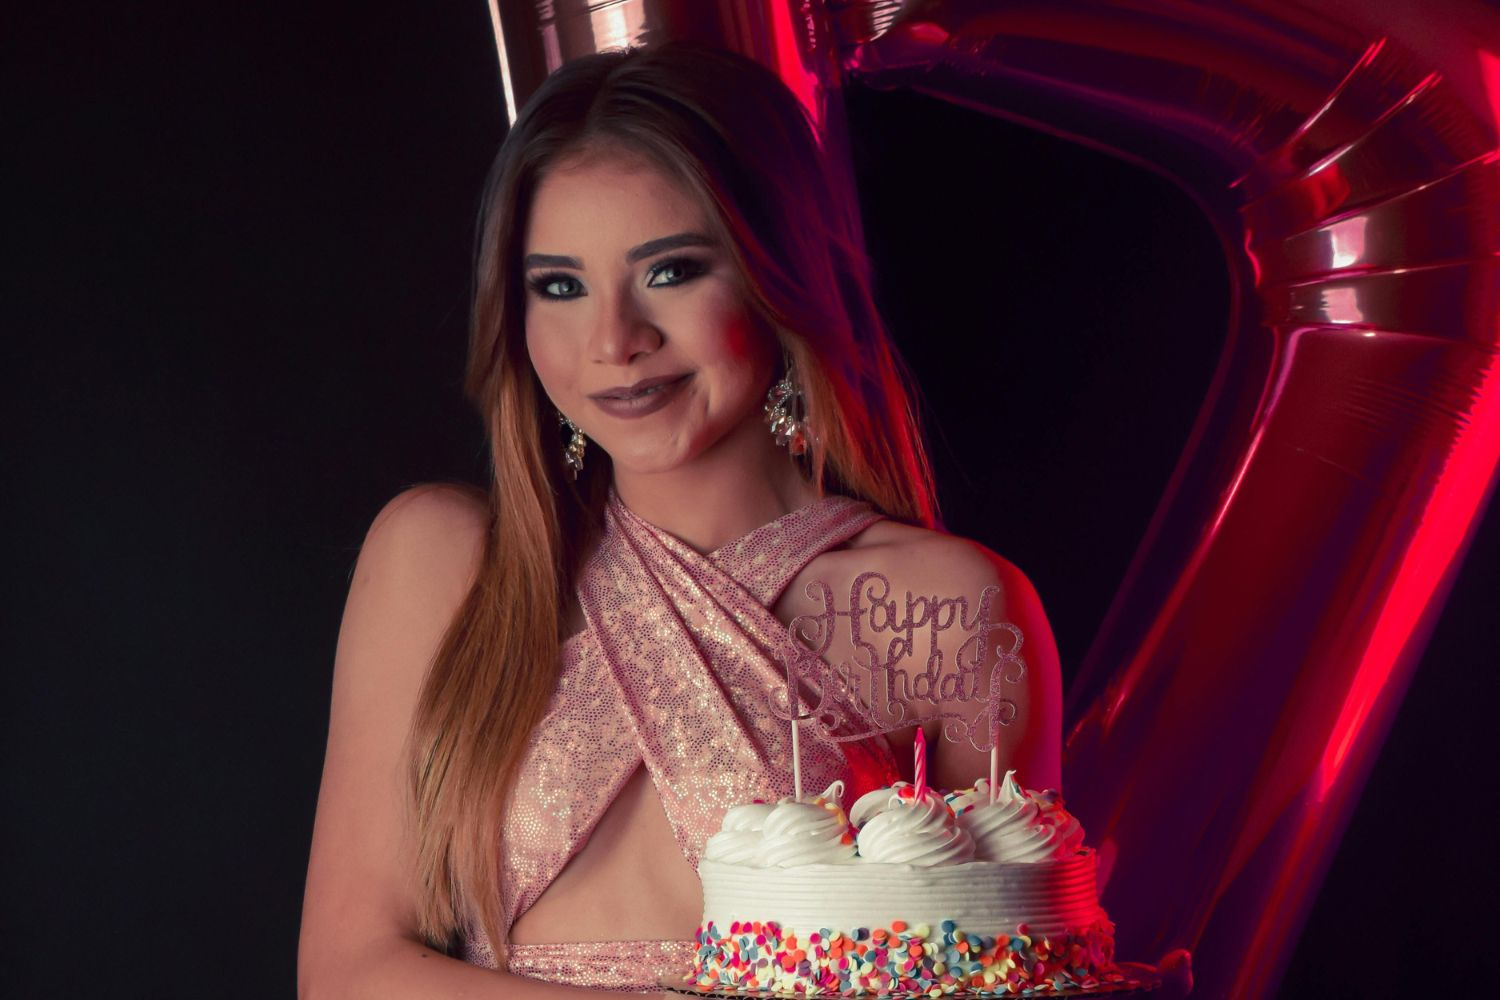
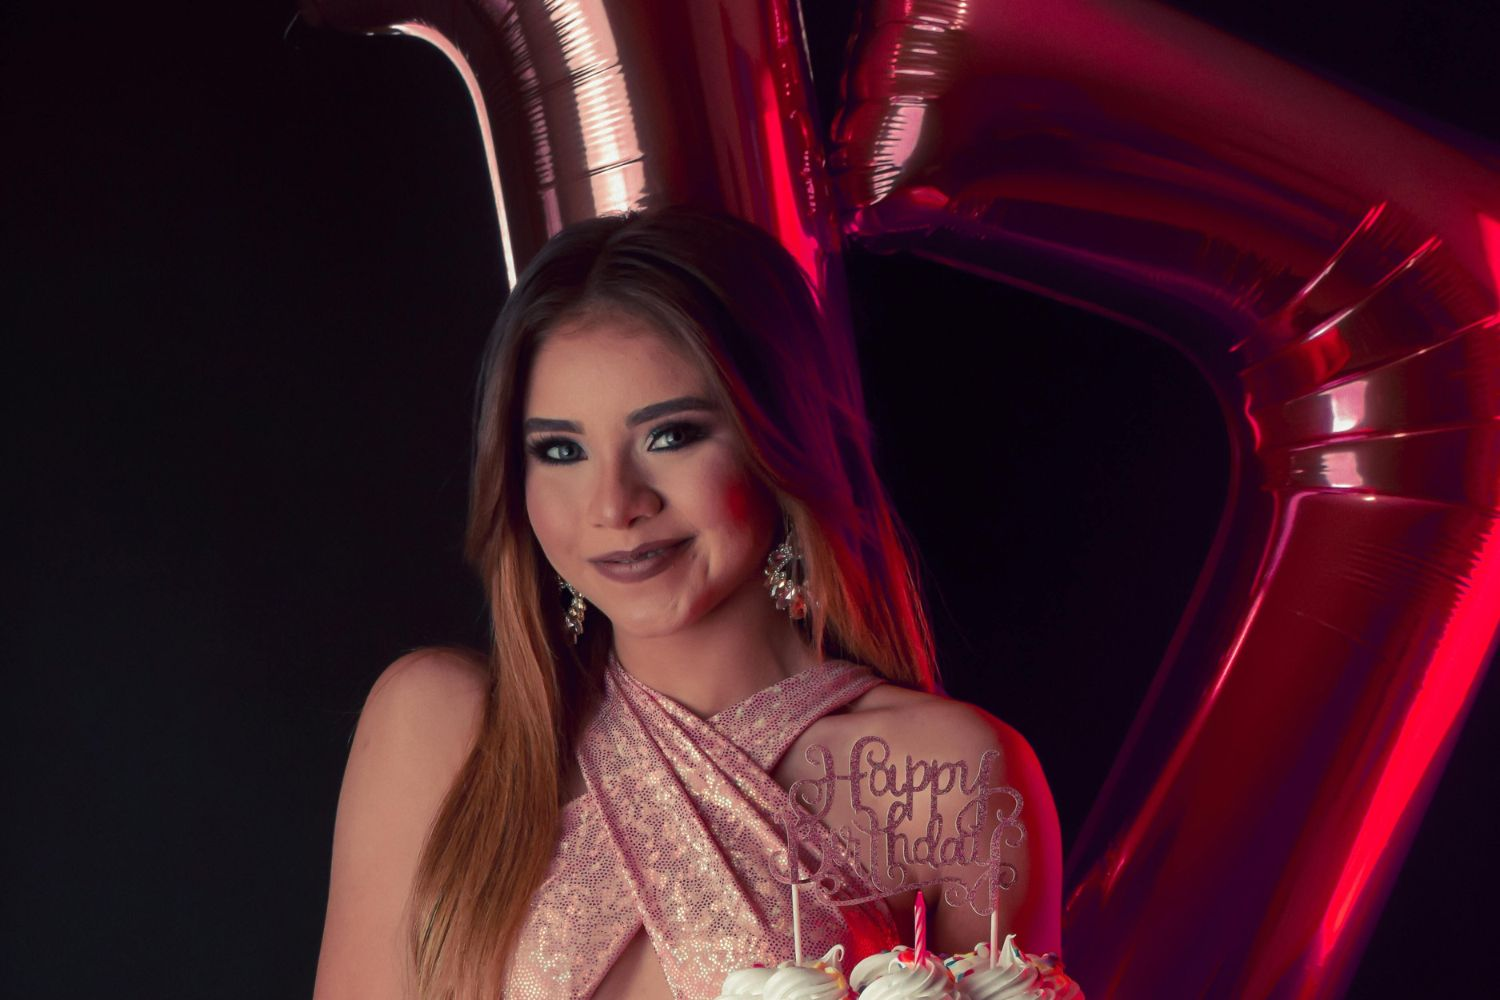
Reorganizando o código, adicionando uma barra central, corrigindo a imagem da home.

diff --git a/index.html b/index.html
@@ -14,32 +14,32 @@
 
 <body>
     <div id="inicio"></div>
-        <!--Criação de cabeçalho-->
+    <!--Criação de cabeçalho-->
 
-        <header>
-            <div class="menu-hamburguer" onclick="abrirSidebar()">☰</div>
-            <div class="nav-container">
-                <nav id="menu">
-                    <a href="#" onclick="mostrarSecao('home')">HOME</a>
-                    <a href="#" onclick="mostrarSecao('sobre')">SOBRE MIM</a>
-                    <a href="#" onclick="mostrarSecao('local')">LOCAL</a>
-                    <a href="#" onclick="mostrarSecao('presentes')">PRESENTE</a>
-                    <a href="#" onclick="mostrarSecao('confirmacao')">CONFIRME SUA PRESENÇA</a>
-                </nav>
-            </div>
+    <header>
+        <div class="menu-hamburguer" onclick="abrirSidebar()">☰</div>
+        <div class="nav-container">
+            <nav id="menu">
+                <a href="#" onclick="mostrarSecao('home')">HOME</a>
+                <a href="#" onclick="mostrarSecao('sobre')">SOBRE MIM</a>
+                <a href="#" onclick="mostrarSecao('local')">LOCAL</a>
+                <a href="#" onclick="mostrarSecao('presentes')">PRESENTE</a>
+                <a href="#" onclick="mostrarSecao('confirmacao')">CONFIRME SUA PRESENÇA</a>
+            </nav>
+        </div>
 
 
-            <!-- Criação do sidebar -->
-            <div id="sidebar" class="sidebar">
-                <a href="#" onclick="fecharSidebar()">✖</a>
-                <a href="#" onclick="mostrarSecao('home'); fecharSidebar()">HOME</a>
-                <a href="#" onclick="mostrarSecao('sobre'); fecharSidebar()">SOBRE MIM</a>
-                <a href="#" onclick="mostrarSecao('local'); fecharSidebar()">LOCAL</a>
-                <a href="#" onclick="mostrarSecao('presentes'); fecharSidebar()">PRESENTE</a>
-                <a href="#" onclick="mostrarSecao('confirmacao'); fecharSidebar()">CONFIRME SUA PRESENÇA</a>
-            </div>
-        </header>
-        <!--Container para pagina home de apresentação-->
+        <!-- Criação do sidebar -->
+        <div id="sidebar" class="sidebar">
+            <a href="#" onclick="fecharSidebar()">✖</a>
+            <a href="#" onclick="mostrarSecao('home'); fecharSidebar()">HOME</a>
+            <a href="#" onclick="mostrarSecao('sobre'); fecharSidebar()">SOBRE MIM</a>
+            <a href="#" onclick="mostrarSecao('local'); fecharSidebar()">LOCAL</a>
+            <a href="#" onclick="mostrarSecao('presentes'); fecharSidebar()">PRESENTE</a>
+            <a href="#" onclick="mostrarSecao('confirmacao'); fecharSidebar()">CONFIRME SUA PRESENÇA</a>
+        </div>
+    </header>
+    <!--Container para pagina home de apresentação-->
     </div>
     <!--Seção home -->
 
@@ -48,9 +48,12 @@
             <div class="home-container">
                 <img src="imagens/Fotos/imagemHome.jpg" alt="Foto de garota com bolo de aniversario" class="imagemHome">
             </div>
+            <div class="barra"></div>
+
+
             <!-- contagem regressiva -->
             <div id="countdown" class="countdown">
-                <h1>Falta pouco para o grande dia!</h1>
+                <h1>Falta pouco para meu grande dia!</h1>
                 <div class="timer">
                     <div><span id="dias">00</span><small>dias</small></div>
                     <div><span id="horas">00</span><small>horas</small></div>
@@ -59,9 +62,11 @@
                 </div>
             </div>
 
+            
+
             <br>
-            <p>Venha curtir comigo esse dia especial, meus 17 anos. Teremos um dresscode especial: <br> <a href="" target="_blank"
-                    style="text-decoration:none; font-weight:bold; color:#600018;">
+            <p>Venha curtir comigo esse dia especial, meus 17 anos. Teremos um dresscode especial: <br> <a href=""
+                    target="_blank" style="text-decoration:none; font-weight:bold; color:#600018;">
                     clique aqui</a> para se inspirar.
             </p><br>
 
@@ -85,21 +90,21 @@
                 <img src="imagens/Fotos/imagem2.png" alt="Foto 2" class="foto">
                 <img src="imagens/Fotos/imagem3.jpg" alt="Foto 3" class="foto">
             </div>
-            <p>Clara celebra mais um ano de vida, 
-                irradiando a mesma alegria contagiante de sempre! Desde jovem, 
-                Clara demonstrou uma paixão por desafios e um coração gentil, 
-                características que a tornaram querida por todos ao seu redor. 
-                Seja em seus projetos pessoais ou no cuidado com seu amado 
+            <p>Clara celebra mais um ano de vida,
+                irradiando a mesma alegria contagiante de sempre! Desde jovem,
+                Clara demonstrou uma paixão por desafios e um coração gentil,
+                características que a tornaram querida por todos ao seu redor.
+                Seja em seus projetos pessoais ou no cuidado com seu amado
                 cachorrinho, o fofo Floquinho, ela sempre se dedica com entusiasm
-                o e carinho. Hoje, ao lado de balões vibrantes e na companhia 
-                de seu fiel amigo de quatro patas, Clara celebra não apenas mais 
+                o e carinho. Hoje, ao lado de balões vibrantes e na companhia
+                de seu fiel amigo de quatro patas, Clara celebra não apenas mais
                 um ano, mas todas as conquistas e a pessoa incrível que se tornou.
-                 Que este novo ciclo seja repleto de ainda mais luz, amor e momentos
-                  inesquecíveis!
+                Que este novo ciclo seja repleto de ainda mais luz, amor e momentos
+                inesquecíveis!
             </p>
 
         </section>
-        
+
         <!--Seção local-->
         <section id="local" class="secao">
             <h1>Local</h1>
@@ -123,8 +128,9 @@
         <!--Seção presentes-->
         <section id="presentes" class="secao">
             <h1>Lista de presentes</h1>
-            
-            <p> Para presentear basta da check na lista do convite virtual e enviar ou realizar pagamento na chave pix.🤍✨ </p><br>
+
+            <p> Para presentear basta da check na lista do convite virtual e enviar ou realizar pagamento na chave
+                pix.🤍✨ </p><br>
 
             <div class="presentes-container">
                 <article class="card-presentes">
@@ -145,8 +151,7 @@
                 no formulário existe um campo para isso, prometo ler todos.🤍
             </p>
             <div class="presenca-container">
-                <a href="" target="_blank" class="button2"
-                    style=" text-decoration: none;"> Confirmar presença!</a>
+                <a href="" target="_blank" class="button2" style=" text-decoration: none;"> Confirmar presença!</a>
 
             </div>
         </section>

diff --git a/style.css b/style.css
@@ -43,17 +43,32 @@ body {
     margin: 0%;
     padding: 0%;
 }
+
 /* estrutura navbar */
 header {
     background-color: #c8375b;
-    padding: 3%; 
-    margin-top: 0%; 
+    padding: 20px;
+    margin-top: 0%;
     margin-bottom: 0%;
     text-align: center;
-    justify-content: space-between; 
-    width: 100%; 
+    justify-content: space-between;
+    width: 100%;
 }
 
+
+/* NAVBAR */
+nav {
+    display: flex;
+    justify-content: center;
+    align-items: center;
+    width: 100%;
+}
+
+nav a {
+    color: white;
+    text-decoration: none;
+    padding-right: 2%;
+}
 
 /*Seção incial container home*/
 .home-container {
@@ -62,18 +77,17 @@ header {
     align-items: center;
     margin: 0px 0;
 }
-
-/* NAVBAR */
-nav {
-    display: flex;
-    justify-content: center;
-    align-items: center;   
-    width: 100%;
+.imagemHome{
+   width: 100%;
+   height: 480px;
+   object-fit: cover;
+   
 }
-nav a {
-    color: white;
-    text-decoration: none;
-    padding-right: 2%;
+
+.barra {
+    width: 100%;
+    height: 60px;
+    background-color: #c8375b;
 }
 
 p {
@@ -188,12 +202,13 @@ h1 {
     padding: 0% 0% 10% 0%;
 
 }
-    .card-presentes p {
+
+.card-presentes p {
     padding: 0;
     margin: 5px 0;
-    }
+}
 
-    .valor {
+.valor {
     margin-top: 8px;
     font-weight: bold;
     color: #600018;
@@ -374,10 +389,11 @@ footer {
     body {
         background-attachment: scroll;
     }
+
     /* cabeçalho    */
 
     .header-container {
-       position:absolute;
+        position: absolute;
     }
 
     /* foto inicial de garota com bolo */
@@ -490,23 +506,26 @@ footer {
         box-sizing: border-box;
     }
 
-      .presentes-container h3{
-        margin: 5% ;
-    }
-    .card-presentes {
-        padding: 2px 0px 100px 0px;
-         margin: 5% ;
+    .presentes-container h3 {
+        margin: 5%;
     }
 
-    .card-presentes  p{
-        text-align:center;
-        padding:2px;
+    .card-presentes {
+        padding: 2px 0px 100px 0px;
+        margin: 5%;
     }
-    .presente{
+
+    .card-presentes p {
+        text-align: center;
+        padding: 2px;
+    }
+
+    .presente {
         width: 70%;
         height: 40%;
         padding-top: 5%;
     }
+
     .sidebar {
         background-color: #600018;
         height: 100vh;
@@ -579,12 +598,13 @@ footer {
     /* container */
     .countdown {
         padding: 0 20px;
-        
+
     }
+
     .countdown h1 {
         font-size: 30px;
     }
-    
+
     /* objeto */
     .timer {
         display: flex;
